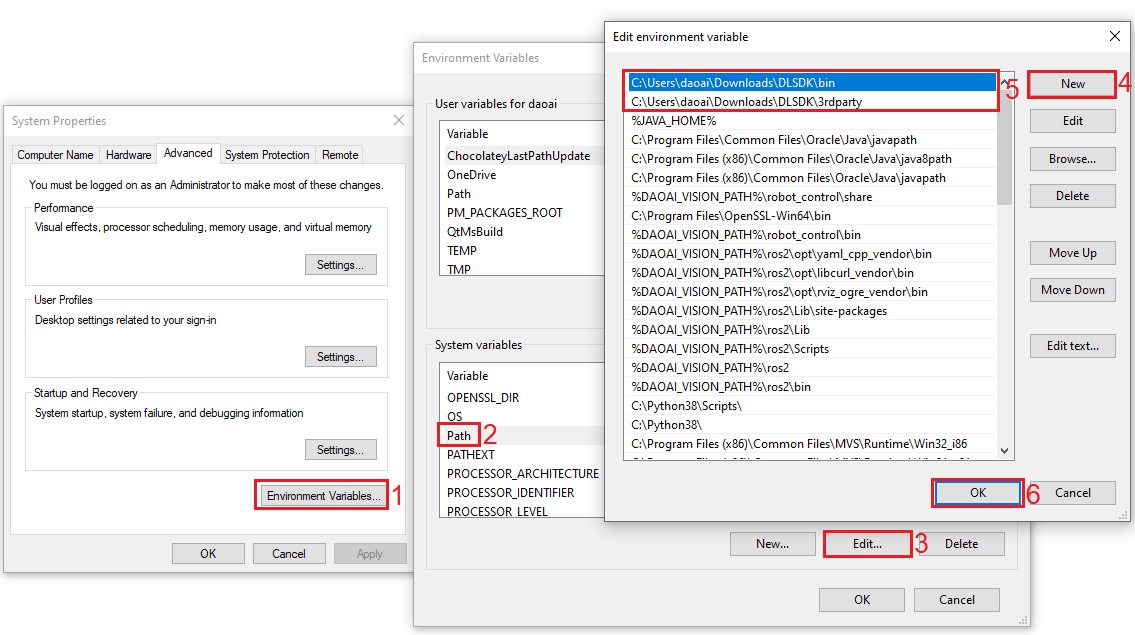
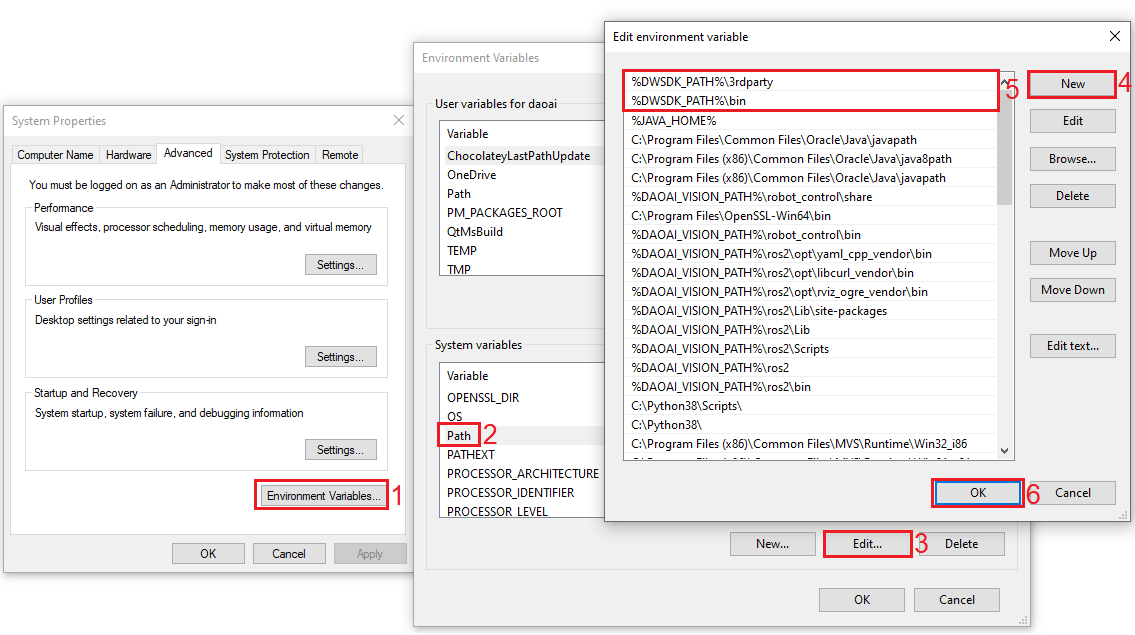
update

Changed region(s): [[0.5551, 0.0898, 0.8943, 0.1795]]

diff --git a/docs/source/develop/index.rst b/docs/source/develop/index.rst
@@ -22,7 +22,7 @@
     - **Python Windows** : Windows Python SDK 下的 2.24.6.0版本的SDK
     - **Python Linux/Jetson** : Linux Jetson Python SDK 下的 2.24.6.0版本的SDK
 
-    **C++** 和 **C#** 的SDK解压后在解压目录下包含有SDK以及SDK的示例项目。
+    **C++** 和 **C#** 的SDK安装包在安装后的安装目录下 包含有SDK以及SDK的示例项目。
 
         .. image:: images/install_folder.png
             :scale: 100%
@@ -66,16 +66,20 @@ DaoAI World SDK 支持CPU模式和GPU模式。尽管您没有GPU 也可以使用
 - 显卡驱动： **GeForce Game Ready Driver 驱动版本：552.22， 发布于 2024年 4月16日**
 
 
+
 C++ 环境配置
 ------------
 
-    
-    首先需要将 DLSDK 解压目录下的bin目录和3rdparty目录添加到系统环境变量path下面。
+    C++的示例项目中的环节已经配置好了，如果您需要创建一个自定义项目，或者从一个空项目开始，则需要进行以下的配置。
 
-    如下图，解压目录为 C:\\Users\\daoai\\Downloads\\DLSDK, 那么就需要将一下两个目录添加到path系统变量中。
+    首先需要将 DLSDK 安装目录下的bin目录和3rdparty目录添加到系统环境变量path下面。
 
-    C:\\Users\\daoai\\Downloads\\DLSDK\\3rdparty， <DLSDK 目录>\\3rdparty
-    C:\\Users\\daoai\\Downloads\\DLSDK\\bin， <DLSDK 目录>\\bin
+    如下图，安装目录为 C:\\Program Files\\DLSDK, 那么就需要将以下两个目录添加到path系统变量中。
+
+    安装包会添加一个DWSDK_PATH 到系统环境变量中，需要正确的使用，还需要添加以下两个路径 到 PATH 变量中
+
+    %DWSDK_PATH%\\3rdparty
+    %DWSDK_PATH%\\bin
 
         .. image:: images/path_icon.png
             :scale: 70%
@@ -83,8 +87,6 @@ C++ 环境配置
         .. image:: images/path_step.png
             :scale: 100%
 
-
-    C++的示例项目中以下的步骤已经配置好了，如果您需要创建一个自定义项目，则需要进行以下的配置。
 
     右键点击c++的项目，然后打开属性。
         
@@ -114,12 +116,14 @@ C++ 环境配置
 C# 环境配置
 ------------
 
-    首先需要将 DLSDK 解压目录下的bin目录和3rdparty目录添加到系统环境变量path下面。
+    首先需要将 DLSDK 安装目录下的bin目录和3rdparty目录添加到系统环境变量path下面。
 
-    如下图，解压目录为 C:\\Users\\daoai\\Downloads\\DLSDK, 那么就需要将一下两个目录添加到path系统变量中。
+    如下图，安装目录为 C:\\Program Files\\DLSDK, 那么就需要将以下两个目录添加到path系统变量中。
 
-    C:\\Users\\daoai\\Downloads\\DLSDK\\3rdparty， <DLSDK 目录>\\3rdparty
-    C:\\Users\\daoai\\Downloads\\DLSDK\\bin， <DLSDK 目录>\\bin
+    安装包会添加一个DWSDK_PATH 到系统环境变量中，需要正确的使用，还需要添加以下两个路径 到 PATH 变量中
+
+    %DWSDK_PATH%\\3rdparty
+    %DWSDK_PATH%\\bin
 
         .. image:: images/path_icon.png
             :scale: 70%
